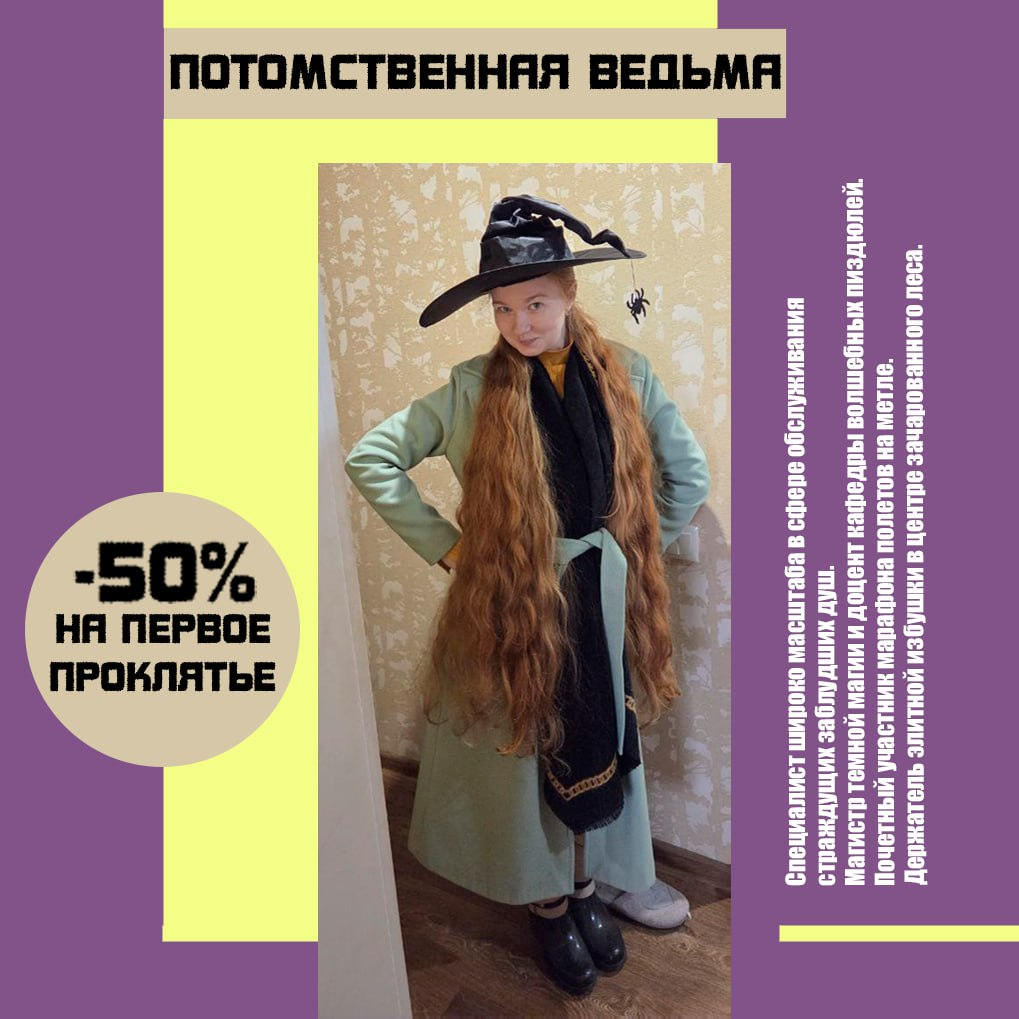
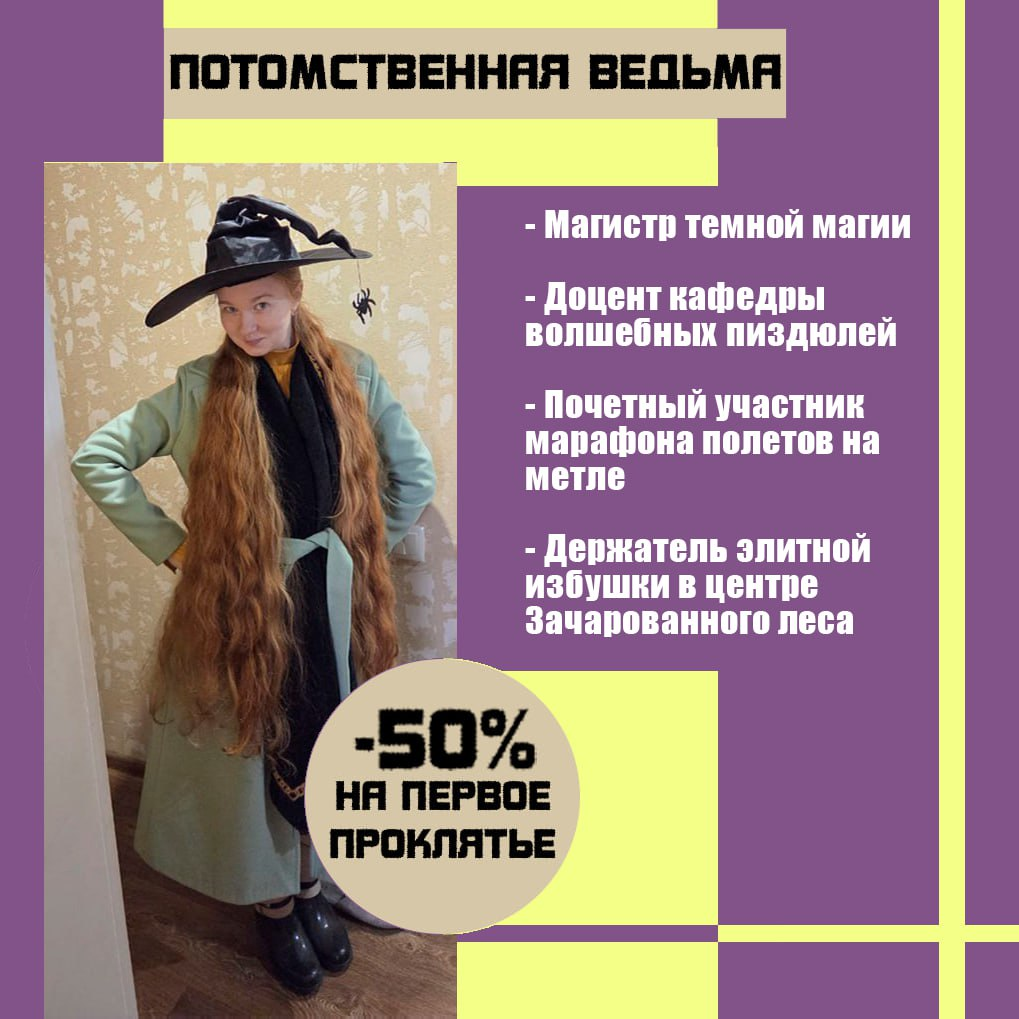
Добавлены все файлы проекта

diff --git a/script.js b/script.js
@@ -21,7 +21,7 @@ const articles = [
         id: 3,
         image: "photos/3.jpg",
         title: "Рыжий ужас снова требует",
-        excerpt: "о словам очевидцев, свирепый маньяк вновь вышел на свое проклятое мастерство. Вот уже который день подряд в службу спасения поступают звонки с жалобами и просьбами о помощи, ведь теперь по вечерам на улице вас может подстерегать эта безжалостная женщина и требовать сделать ей чай. Убедительная просьба для граждан оставаться дома, а, если вы все-таки выходите, не берите с собой чайные пакетики. И, если вы вдруг услышите вопрос “Есть чай? А если найду?” то просто бегите не оглядываясь.",
+        excerpt: "По словам очевидцев, свирепый маньяк вновь вышел на свое проклятое мастерство. Вот уже который день подряд в службу спасения поступают звонки с жалобами и просьбами о помощи, ведь теперь по вечерам на улице вас может подстерегать эта безжалостная женщина и требовать сделать ей чай. Убедительная просьба для граждан оставаться дома, а, если вы все-таки выходите, не берите с собой чайные пакетики. И, если вы вдруг услышите вопрос “Есть чай? А если найду?” то просто бегите не оглядываясь.",
         category: "Жёлтая пресса",
         icon: "📰",
         color: "#eab308"
@@ -57,7 +57,7 @@ const articles = [
         id: 7,
         image: "photos/13.jpg",
         title: "А на море белый песок.",
-        excerpt: "А на белом песке аквапарк. А в аквапарке прошла масштабная фотосессия с участием звезд Playboy. Особое внимание уделялось восходящее звезде - Сицилициной Анастасии. Она буквально приковывала все внимание зрителей и съемочной группы к себе. Сам Хью Хефнер дал комментарий, что новый \"кролик\" появится и на новогоднем календаре.",
+        excerpt: "А на белом песке аквапарк. А в аквапарке прошла масштабная фотосессия с участием звезд Playboy. Особое внимание уделялось восходящей звезде - Сицилициной Анастасии. Она буквально приковывала все внимание зрителей и съемочной группы к себе. Сам Хью Хефнер дал комментарий, что новый \"кролик\" появится и на новогоднем календаре.",
         category: "Новости",
         icon: "💬",
         color: "#b45309"
@@ -95,7 +95,7 @@ const articles = [
         id: 11,
         image: "photos/21.jpg",
         title: "Утро удалось ужасным!",
-        excerpt: "“Еще никогда ягода не была ко мне так жестока” — именно этой фразой Анастасия Сицилицина встретила нашего корреспондента. К сожалению, более менее складного диалога дальше не получилось, так как у дивы обнаружились серьезные провалы в памяти, полное не состояние принять вертикальное положение, неприятный привкус во рту и в целом отсутствие желания жить дальше. Поэтому наш корреспондент спешно проводить спасательную операцию и в срочном порядке выехал в ближайший магазин “за минералочкой”.",
+        excerpt: "“Еще никогда ягода не была ко мне так жестока” — именно этой фразой Анастасия Сицилицина встретила нашего корреспондента. К сожалению, более менее складного диалога дальше не получилось, так как у дивы обнаружились серьезные провалы в памяти, полное не состояние принять вертикальное положение, неприятный привкус во рту и в целом отсутствие желания жить дальше. Поэтому наш корреспондент спешно проводит спасательную операцию и в срочном порядке выехал в ближайший магазин “за минералочкой”.",
         category: "Интервью",
         icon: "🎤",
         color: "#d9c706ff"
@@ -105,7 +105,7 @@ const articles = [
         id: 12,
         image: "photos/22.jpg",
         title: "День удался в шоковом состоянии!",
-        excerpt: "Наш корреспондент оказал первую помощь местной диве Анастасии Сицилициной, и привез гуманитарную помощь в виде минералочки и таблетки аспирина. А также предоставил материалы прошедшего вечера, что и позволило запечатлеть непередаваемые эмоции счастья и восторга на лице Анастасии Юрьевной. Однако съемочной группе пришлось срочно сворачиваться и покидать место съемок, под предлогом, что гостям не гоже долго задерживаться. И поездка корреспондента в травмпункт никак с этим не связана.",
+        excerpt: "Наш корреспондент оказал первую помощь местной диве Анастасии Сицилициной, и привез минералочку и таблетки аспирина. А также предоставил материалы прошедшего вечера, что и позволило запечатлеть непередаваемые эмоции счастья и восторга на лице Анастасии Юрьевной. Однако съемочной группе пришлось срочно сворачиваться и покидать место съемок, под предлогом, что гостям не гоже долго задерживаться. И поездка корреспондента в травмпункт никак с этим не связана.",
         category: "Шок-контент",
         icon: "😱",
         color: "#068cd9ff"
@@ -113,21 +113,21 @@ const articles = [
 
     {
         id: 13,
-        type: "ad",
+        type: "meme",
         image: "photos/ad1.jpg",
         color: "#dcf3f7ff"
     },
 
         {
         id: 14,
-        type: "ad",
+        type: "meme",
         image: "photos/ad2.jpg",
         color: "#7c22c5ff"
     },
 
         {
         id: 15,
-        type: "ad",
+        type: "meme",
         image: "photos/ad3.jpg",
         color: "#c55322ff"
     },
@@ -170,10 +170,10 @@ document.addEventListener('DOMContentLoaded', () => {
 
     // ======= Глобальный popup для рекламы =======
     const adPopup = document.createElement('div');
-    adPopup.className = 'ad-popup';
-    adPopup.innerHTML = `<img class="ad-popup-img" src="" alt="Реклама">`;
+    adPopup.className = 'meme-popup';
+    adPopup.innerHTML = `<img class="meme-popup-img" src="" alt="Реклама">`;
     document.body.appendChild(adPopup);
-    const adPopupImg = adPopup.querySelector('.ad-popup-img');
+    const adPopupImg = adPopup.querySelector('.meme-popup-img');
 
     // ======= Функция рендера карточек =======
     function renderArticles() {
@@ -205,8 +205,8 @@ document.addEventListener('DOMContentLoaded', () => {
             }
 
             // Реклама
-            if (item.type === 'ad') {
-                card.className = 'ad-card';
+            if (item.type === 'meme') {
+                card.className = 'meme-card';
                 card.style.setProperty('--card-color', item.color);
                 card.innerHTML = `<img class="simple-thumb" src="${item.image}" alt="Реклама">`;
             }
@@ -249,7 +249,7 @@ document.addEventListener('DOMContentLoaded', () => {
             targetGrid.appendChild(card);
 
             // ======= Обработчик рекламы =======
-            if (item.type === 'ad') {
+            if (item.type === 'meme') {
                 const thumb = card.querySelector('.simple-thumb');
 
                 function showPopup() {

diff --git a/styles.css b/styles.css
@@ -504,6 +504,34 @@ body {
     background: linear-gradient(90deg, var(--orange-600), var(--amber-500), var(--purple-600));
     color: white;
     padding: 3rem 1rem;
+    position: relative;       /* важно для абсолютного позиционирования лого */
+    text-align: center;  
+}
+
+.footer-left .footer-logo {
+    position: absolute;       /* выносим лого отдельно */
+    top: 50%;                 /* вертикально по центру футера */
+    left: 1rem;               /* отступ слева */
+    transform: translateY(-50%);
+    height: 300px;            
+    width: auto;
+    z-index: 1; 
+}
+
+/* Лого справа */
+.footer-right-logo .footer-logo {
+    position: absolute;
+    top: 50%;
+    right: 1rem;
+    transform: translateY(-50%); /* зеркально отражаем */
+    height: 300px;
+    width: auto;
+    z-index: 1;
+}
+
+.footer-right {
+    max-width: 1200px;
+    margin: 0 auto;              /* занимает оставшееся место */
 }
 
 .footer-content {
@@ -557,6 +585,20 @@ body {
     border-top: 1px solid rgba(255, 255, 255, 0.2);
     font-size: 0.875rem;
     opacity: 0.8;
+}
+
+/* Мобильные экраны */
+@media (max-width: 768px) {
+    .footer-left .footer-logo,
+    .footer-right-logo .footer-logo {
+        position: relative;
+        top: auto;
+        left: auto;
+        right: auto;
+        transform: none;
+        height: 120px;
+        margin: 1rem 0;
+    }
 }
 
 /* Responsive */
@@ -618,7 +660,7 @@ body {
 }
 
 /* ========== Popup для рекламы (соответствует твоему JS) ========== */
-.ad-card {
+.meme-card {
     position: relative;
     background: none;
     padding: 0;
@@ -628,11 +670,11 @@ body {
     cursor: zoom-in;
 }
 
-.ad-card:hover {
+.meme-card:hover {
     transform: scale(1.03);
 }
 
-.ad-popup {
+.meme-popup {
     position: fixed;  /* ключевое — фиксированный, поверх всего */
     display: none;
     z-index: 9999;
@@ -645,14 +687,14 @@ body {
     transition: transform 180ms ease, opacity 180ms ease;
 }
 
-.ad-popup.visible {
+.meme-popup.visible {
     display: block;
     opacity: 1;
     transform: translateY(0) scale(1);
     pointer-events: auto;
 }
 
-.ad-popup-img {
+.meme-popup-img {
     display: block;
     width: 520px;
     max-width: calc(100vw - 40px);
@@ -662,11 +704,11 @@ body {
 }
 
 @media (max-width: 640px) {
-    .ad-popup-img { width: 320px; max-width: calc(100vw - 32px); border-width: 4px; }
-    .ad-popup { left: 100%; }
+    .meme-popup-img { width: 320px; max-width: calc(100vw - 32px); border-width: 4px; }
+    .meme-popup { left: 100%; }
 }
 
-.ad-card .simple-thumb {
+.meme-card .simple-thumb {
     border: 10px solid rgb(255, 123, 105);
     border-radius: 20px;
     width: 100%;

diff --git a/index.html b/index.html
@@ -142,7 +142,11 @@
 </section>
 
     <!-- Footer -->
-    <footer class="footer">
+<footer class="footer">
+    <div class="footer-left">
+        <img src="photos/logo.png" alt="Лого" class="footer-logo">
+    </div>
+    <div class="footer-right">
         <div class="footer-content">
             <div class="footer-header">
                 <span class="cake-icon">🎂</span>
@@ -151,7 +155,7 @@
             </div>
             <p class="footer-tagline">Специальное Хеппибёздовское издание</p>
             <div class="footer-message">
-                <p>Сделали этот сайт специально для тебя, Настюша!
+                <p>Эти люди сделали этот сайт специально для тебя, Настюша!
                     <br>Ангелина: пилила сайт и подгоняла всех работать.
                     <br>Мари: писала тексты и редактировала фотографии.
                     <br>Максим: скидывал фоточки и был пидарасом.</p>
@@ -160,7 +164,11 @@
                 <p>С любовью ❤ от отдела ГМХ</p>
             </div>
         </div>
-    </footer>
+    </div>
+     <div class="footer-right-logo">
+        <img src="photos/1 1.png" alt="Лого" class="footer-logo">
+    </div>
+</footer>
 
     <script src="script.js"></script>
 </body>
